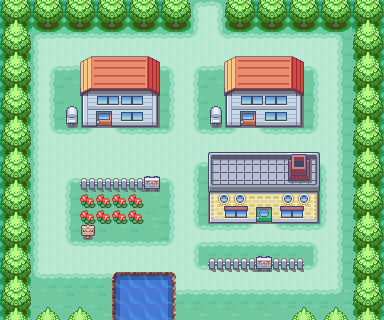
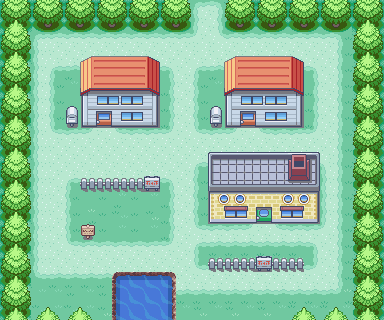
Added collision detection, added animation for the flowers, added nice overlaps so the player can move behind houses. Pallet town is looking good externally.

Changed region(s): [[0.1875, 0.5938, 0.375, 0.7188]]

diff --git a/src/PalletTown.java b/src/PalletTown.java
@@ -12,22 +12,49 @@ public class PalletTown {
         initMap(state, container);
         initNpcs(state, container);
         initTopSprites(state, container);
+
+        //Add collision information.
+        state.collisionMap.clear();
+        state.collisionMap.addCollisionBox(80, 64, 160, 128); //left red house
+        state.collisionMap.addCollisionBox(224, 64, 304, 128); //right red house
+        state.collisionMap.addCollisionBox(208, 160, 320, 224); //bottom right house
+        state.collisionMap.addCollisionBox(80, 176, 160, 192); //left fence
+        state.collisionMap.addCollisionBox(64, 112, 80, 128); //left postbox
+        state.collisionMap.addCollisionBox(208, 112, 224, 128); //right postbox
+        state.collisionMap.addCollisionBox(80, 224, 96, 240); //bottom left sign
+        state.collisionMap.addCollisionBox(208, 256, 304, 272); //bottom right fence
+        state.collisionMap.addCollisionBox(112, 272, 176, 320); //bottom pool
+
+        //Forest bounds collision info.
+        state.collisionMap.addCollisionBox(0, 0, 192, 32); //top left forest
+        state.collisionMap.addCollisionBox(224, 0, 384, 32); //top right forest
+        state.collisionMap.addCollisionBox(0, 0, 32, 320); //left forest
+        state.collisionMap.addCollisionBox(352, 0, 384, 320); //right forest
+        state.collisionMap.addCollisionBox(0, 320, 384, 352); //bottom forest
     }
 
     private static void initMap(GameWalkingState state, GameContainer container) throws SlickException {
+        //The forest background and the actual palletTown image.
         Image palletTownTree = new Image("assets/pallet_tree.png");
         Image palletTownSprite = new Image("assets/pallet_town.png");
-        GameTileMapEntity palletForest = new GameTileMapEntity(-1600, -1600, palletTownTree, 400, 400);
-        GameStaticEntity palletTownMap = new GameStaticEntity(0, 0, palletTownSprite);
 
-        state.entities.add(palletForest);
-        state.entities.add(palletTownMap);
+        state.entities.add(new GameTileMapEntity(-1600, -1600, palletTownTree, 400, 400));
+        state.entities.add(new GameStaticEntity(0, 0, palletTownSprite));
+
+        //Moving flowers in pallet town.
+        SpriteSheet flowerSheet = new SpriteSheet("assets/flower_animation.png", 16, 16);
+
+        for (int y = 0; y < 2; y++) {
+            for (int x = 0; x < 3; x++) {
+                state.entities.add(new GameAnimatedEntity(96 + x*16, 192 + y*16, flowerSheet, 1.0f));
+            }
+        }
     }
 
     private static void initNpcs(GameWalkingState state, GameContainer container) throws SlickException {
         SpriteSheet playerSheet = new SpriteSheet("assets/player.png", 16, 32);
-        GamePlayerEntity player = new GamePlayerEntity(112, 16, playerSheet, container.getInput());
 
+        GamePlayerEntity player = new GamePlayerEntity(112, 16, playerSheet, container.getInput());
         state.entities.add(player);
         state.camera = player;
     }
@@ -35,14 +62,18 @@ public class PalletTown {
     //TODO: this is a pass at creating a spritesheet on top so the player can walk behind things.
     // This will be replaced with proper spritesheets later.
     private static void initTopSprites(GameWalkingState state, GameContainer container) throws SlickException {
+        //The tops of the houses for the player to walk under.
         Image house1 = new Image("assets/pallet_house_1.png");
         Image house2 = new Image("assets/pallet_house_2.png");
-        GameStaticEntity leftRedHouse = new GameStaticEntity(80, 48, house1);
-        GameStaticEntity rightRedHouse = new GameStaticEntity(224, 48, house1);
-        GameStaticEntity rightBlueHouse = new GameStaticEntity(208, 144, house2);
 
-        state.entities.add(leftRedHouse);
-        state.entities.add(rightRedHouse);
-        state.entities.add(rightBlueHouse);
+        state.entities.add(new GameStaticEntity(80, 48, house1));
+        state.entities.add(new GameStaticEntity(224, 48, house1));
+        state.entities.add(new GameStaticEntity(208, 144, house2));
+
+        //The tops of the trees for the player to walk under.
+        Image treeTop = new Image("assets/pallet_tree_top.png");
+
+        for (int i = 0; i < 10; i++)
+            state.entities.add(new GameStaticEntity(32 + i*32, 288, treeTop));
     }
 }

diff --git a/src/GameWalkingState.java b/src/GameWalkingState.java
@@ -1,3 +1,4 @@
+import org.newdawn.slick.Color;
 import org.newdawn.slick.GameContainer;
 import org.newdawn.slick.Graphics;
 import org.newdawn.slick.SlickException;
@@ -22,10 +23,14 @@ public class GameWalkingState extends BasicGameState {
     public List<GameEntity> entities;
     public GameEntity camera;
 
+    //Collision map data.
+    public GameCollisionMap collisionMap;
+
     public void init(GameContainer container, StateBasedGame game) {
         currentTick = 0;
         actionQueue = new PriorityQueue<>();
         entities = new ArrayList<>();
+        collisionMap = new GameCollisionMap();
 
         try {
             PalletTown.init(this, container);
@@ -37,6 +42,19 @@ public class GameWalkingState extends BasicGameState {
     public void render(GameContainer container, StateBasedGame game, Graphics graphics) {
         for (GameEntity entity : entities) {
             entity.render(camera.x - Constants.SCREEN_WIDTH / 2, camera.y - Constants.SCREEN_HEIGHT / 2);
+        }
+
+        /**
+         * DEBUG - render the collision boxes
+         */
+        graphics.setColor(Color.red);
+        for (GameCollisionMap.CollisionBox box : collisionMap.entities) {
+            graphics.drawRect(
+                    box.x1 - camera.x + Constants.SCREEN_WIDTH/2,
+                    box.y1 - camera.y + Constants.SCREEN_HEIGHT/2,
+                    box.x2 - box.x1,
+                    box.y2 - box.y1
+            );
         }
     }
 
@@ -53,7 +71,7 @@ public class GameWalkingState extends BasicGameState {
         while(!actionQueue.isEmpty() && actionQueue.peek().activationTick <= currentTick) {
             GameAction action = actionQueue.poll();
 
-            action.update(currentTickF);
+            action.update(currentTickF, entities);
             if (!action.isComplete)
                 unfinishedActions.add(action);
         }
@@ -63,7 +81,7 @@ public class GameWalkingState extends BasicGameState {
 
         //Update entities.
         for (GameEntity entity : entities) {
-            entity.update(currentTickF, deltaTicks, actionQueue);
+            entity.update(currentTickF, deltaTicks, actionQueue, collisionMap);
         }
     }
 

diff --git a/src/GameAnimatedEntity.java b/src/GameAnimatedEntity.java
@@ -1,0 +1,50 @@
+import org.newdawn.slick.SpriteSheet;
+
+import java.util.PriorityQueue;
+
+/**
+ * Created by guy on 8/2/15.
+ * Models a static entity that animates, like the flowers or the grass.
+ * This assumes that the spritesheet is a horizontal one. It doesn't currently
+ * support arbitrary layout of the animation sprites.
+ */
+public class GameAnimatedEntity extends GameEntity {
+    SpriteSheet spriteSheet;
+    float framesPerTick;
+    float currentFrame;
+
+    public GameAnimatedEntity(float x, float y, SpriteSheet spriteSheet, float framesPerTick) {
+        this(x, y, spriteSheet, framesPerTick, 0);
+    }
+
+    public GameAnimatedEntity(float x, float y, SpriteSheet spriteSheet, float framesPerTick, int currentFrame) {
+        super(x, y);
+
+        this.spriteSheet = spriteSheet;
+        this.framesPerTick = framesPerTick;
+        this.currentFrame = currentFrame;
+    }
+
+    @Override
+    public void update(float currentTickF, float tickDelta, PriorityQueue<GameAction> actionQueue, GameCollisionMap collisionMap) {
+        //Update the current frame, and clamp it.
+        currentFrame += tickDelta;
+
+        if (currentFrame > spriteSheet.getHorizontalCount()) {
+            float frameDiff = currentFrame - (long) currentFrame;
+
+            currentFrame = ((long) currentFrame % spriteSheet.getHorizontalCount())
+                    + frameDiff;
+        }
+    }
+
+    @Override
+    public void render(float cameraX, float cameraY) {
+        float renderX = x - cameraX;
+        float renderY = y - cameraY;
+
+        spriteSheet
+                .getSprite((int) currentFrame, 0)
+                .draw(renderX, renderY);
+    }
+}

diff --git a/src/GamePlayerEntity.java b/src/GamePlayerEntity.java
@@ -22,18 +22,21 @@ public class GamePlayerEntity extends GameNpcEntity {
      * If we aren't busy with something already, allow arrows to control the players'
      * movement.
      */
-    public void update(float currentTickF, float tickDelta, PriorityQueue<GameAction> actionQueue) {
+    public void update(float currentTickF, float tickDelta, PriorityQueue<GameAction> actionQueue, GameCollisionMap collisionMap) {
         long movementTick = getMovementTick(currentTickF);
 
         if (!busyWithAction) {
-            if (playerInput.isKeyDown(Input.KEY_UP))
-                actionQueue.add(new GameNpcMovementAction(movementTick, this, 0, -1));
-            else if (playerInput.isKeyDown(Input.KEY_DOWN))
-                actionQueue.add(new GameNpcMovementAction(movementTick, this, 0, +1));
-            else if (playerInput.isKeyDown(Input.KEY_LEFT))
-                actionQueue.add(new GameNpcMovementAction(movementTick, this, -1, 0));
-            else if (playerInput.isKeyDown(Input.KEY_RIGHT))
-                actionQueue.add(new GameNpcMovementAction(movementTick, this, +1, 0));
+            int dx = 0, dy = 0;
+
+            if (playerInput.isKeyDown(Input.KEY_UP))         dy = -1;
+            else if (playerInput.isKeyDown(Input.KEY_DOWN))  dy = +1;
+            else if (playerInput.isKeyDown(Input.KEY_LEFT))  dx = -1;
+            else if (playerInput.isKeyDown(Input.KEY_RIGHT)) dx = +1;
+
+            if (dx != 0 || dy != 0) {
+                if (this.canMoveInDirection(dx, dy, collisionMap))
+                    actionQueue.add(new GameNpcMovementAction(movementTick, this, dx, dy));
+            }
         }
     }
 }

diff --git a/src/GameCollisionMap.java b/src/GameCollisionMap.java
@@ -1,0 +1,50 @@
+import java.util.ArrayList;
+import java.util.List;
+
+/**
+ * Created by guy on 8/2/15.
+ * Contains collision data for the current map. Positions can be polled for whether
+ * they are within a collision area or not.
+ */
+public class GameCollisionMap {
+    List<CollisionBox> entities;
+
+    public GameCollisionMap() {
+        entities = new ArrayList<>();
+    }
+
+    public void addCollisionBox(float x1, float y1, float x2, float y2) {
+        entities.add(new CollisionBox(x1, y1, x2, y2));
+    }
+
+    public boolean isCollision(float x, float y) {
+        for (CollisionBox entity : entities) {
+            if (entity.isCollision(x, y))
+                return true;
+        }
+
+        return false;
+    }
+
+    public void clear() {
+        entities.clear();
+    }
+
+    class CollisionBox {
+        float x1, x2, y1, y2;
+
+        public CollisionBox(float x1, float y1, float x2, float y2) {
+            this.x1 = x1;
+            this.y1 = y1;
+            this.x2 = x2;
+            this.y2 = y2;
+        }
+
+        public boolean isCollision(float x, float y) {
+            if (x < x1 || x >= x2) return false;
+            if (y < y1 || y >= y2) return false;
+
+            return true;
+        }
+    }
+}

diff --git a/src/GameNpcEntity.java b/src/GameNpcEntity.java
@@ -1,4 +1,3 @@
-import org.newdawn.slick.Image;
 import org.newdawn.slick.SpriteSheet;
 
 import java.util.PriorityQueue;
@@ -38,7 +37,7 @@ public class GameNpcEntity extends GameEntity {
     }
 
     @Override
-    public void update(float currentTickF, float tickDelta, PriorityQueue<GameAction> actionQueue) {
+    public void update(float currentTickF, float tickDelta, PriorityQueue<GameAction> actionQueue, GameCollisionMap collisionMap) {
         //For the moment, we do absolutely nothing ^_^.
         long movementTick = getMovementTick(currentTickF);
         if (!busyWithAction) {
@@ -56,6 +55,13 @@ public class GameNpcEntity extends GameEntity {
                 .getSprite(spriteX, spriteY)
                 .getFlippedCopy(flipSpriteHorizontally, false)
                 .draw(renderX, renderY - 16.0f);
+    }
+
+    /**
+     * Can we move in the given direction without hitting a collision entity?
+     */
+    public boolean canMoveInDirection(int dx, int dy, GameCollisionMap collisionMap) {
+        return !collisionMap.isCollision(x + dx*Constants.BLOCK_SIZE, y + dy*Constants.BLOCK_SIZE);
     }
 
     public long getMovementTick(float currentTickF) {

diff --git a/src/GameAction.java b/src/GameAction.java
@@ -1,8 +1,13 @@
-//Models an action that happens at a particular game tick.
-//When the action update is called, the delta given is the number
-// of ticks that have passed since the action started, or since last
-// update otherwise. When an action is complete, it must
-// call setComplete().
+import java.util.List;
+
+/**
+ * Models an action that happens at a particular game tick.
+ * When the action update is called, the delta given is the number
+ * of ticks that have passed since the action started, or since last
+ * update otherwise. When an action is complete, it must
+ * call setComplete().
+ * We pass in the entityList so that actions can create temporary animations for instance.
+ */
 public abstract class GameAction implements Comparable<GameAction> {
     public long activationTick;
     public boolean isComplete;
@@ -12,7 +17,7 @@ public abstract class GameAction implements Comparable<GameAction> {
         this.isComplete = false;
     }
 
-    public abstract void update(float currentTickF);
+    public abstract void update(float currentTickF, List<GameEntity> entityList);
 
     public void setComplete() {
         isComplete = true;

diff --git a/src/GameTileMapEntity.java b/src/GameTileMapEntity.java
@@ -1,5 +1,3 @@
-import com.sun.corba.se.impl.orbutil.closure.Constant;
-import com.sun.xml.internal.bind.v2.runtime.reflect.opt.Const;
 import org.newdawn.slick.Image;
 
 import java.util.PriorityQueue;
@@ -19,7 +17,7 @@ public class GameTileMapEntity extends GameEntity {
         this.yCopies = yCopies;
     }
 
-    public void update(float currentTickF, float tickDelta, PriorityQueue<GameAction> actionQueue) {
+    public void update(float currentTickF, float tickDelta, PriorityQueue<GameAction> actionQueue, GameCollisionMap collisionMap) {
     }
 
     public void render(float cameraX, float cameraY) {

diff --git a/src/GameNpcMovementAction.java b/src/GameNpcMovementAction.java
@@ -1,3 +1,5 @@
+import java.util.List;
+
 /**
  * Created by guy on 8/1/15.
  * Controls the movement of a given NPC from one tile to an adjacent one.
@@ -24,7 +26,7 @@ public class GameNpcMovementAction extends GameAction {
     }
 
     @Override
-    public void update(float currentTickF) {
+    public void update(float currentTickF, List<GameEntity> entityList) {
         float deltaTickF = currentTickF - lastUpdateTickF;
 
         //We move the entity first.

diff --git a/src/Constants.java b/src/Constants.java
@@ -5,7 +5,7 @@ public class Constants {
     //Blocks represent what visibly appears to be a tile, but the pokemon engine
     //renders it individually internally.
     public static final float SEC_PER_TICK = 0.20f;
-    public static final float NPC_PIX_PER_TICK = 8.0f;
+    public static final float NPC_PIX_PER_TICK = 16.0f;
     public static final float BLOCK_SIZE = 16.0f;
 
     //The amount of time between a new tick and current tick before player

diff --git a/src/GameEntity.java b/src/GameEntity.java
@@ -9,6 +9,6 @@ public abstract class GameEntity {
         this.y = y;
     }
 
-    public abstract void update(float currentTickF, float tickDelta, PriorityQueue<GameAction> actionQueue);
+    public abstract void update(float currentTickF, float tickDelta, PriorityQueue<GameAction> actionQueue, GameCollisionMap collisionMap);
     public abstract void render(float cameraX, float cameraY);
 }

diff --git a/src/GameStaticEntity.java b/src/GameStaticEntity.java
@@ -16,7 +16,7 @@ public class GameStaticEntity extends GameEntity {
     }
 
     @Override
-    public void update(float currentTickF, float tickDelta, PriorityQueue<GameAction> actionQueue) {
+    public void update(float currentTickF, float tickDelta, PriorityQueue<GameAction> actionQueue, GameCollisionMap collisionMap) {
     }
 
     @Override
